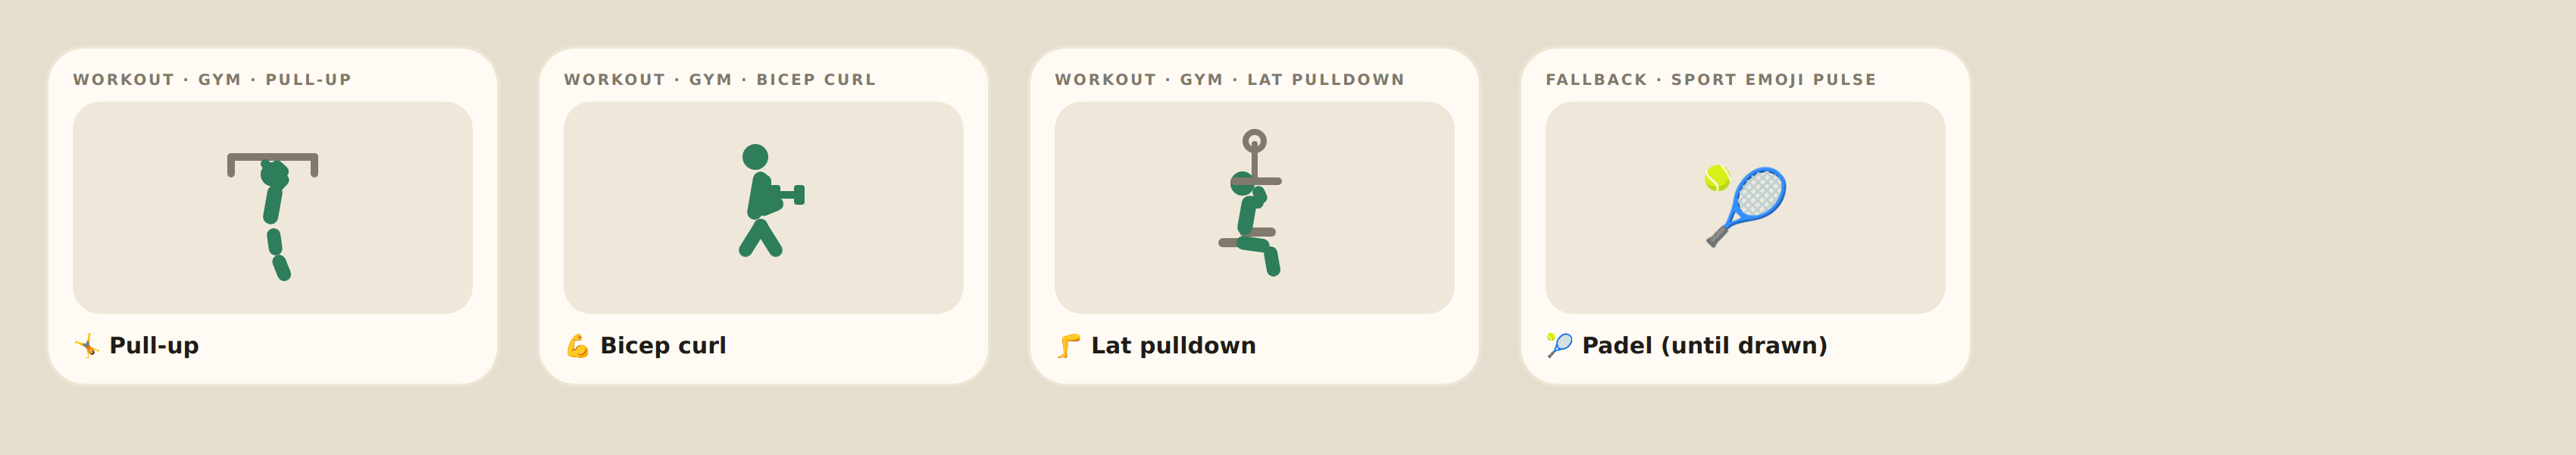
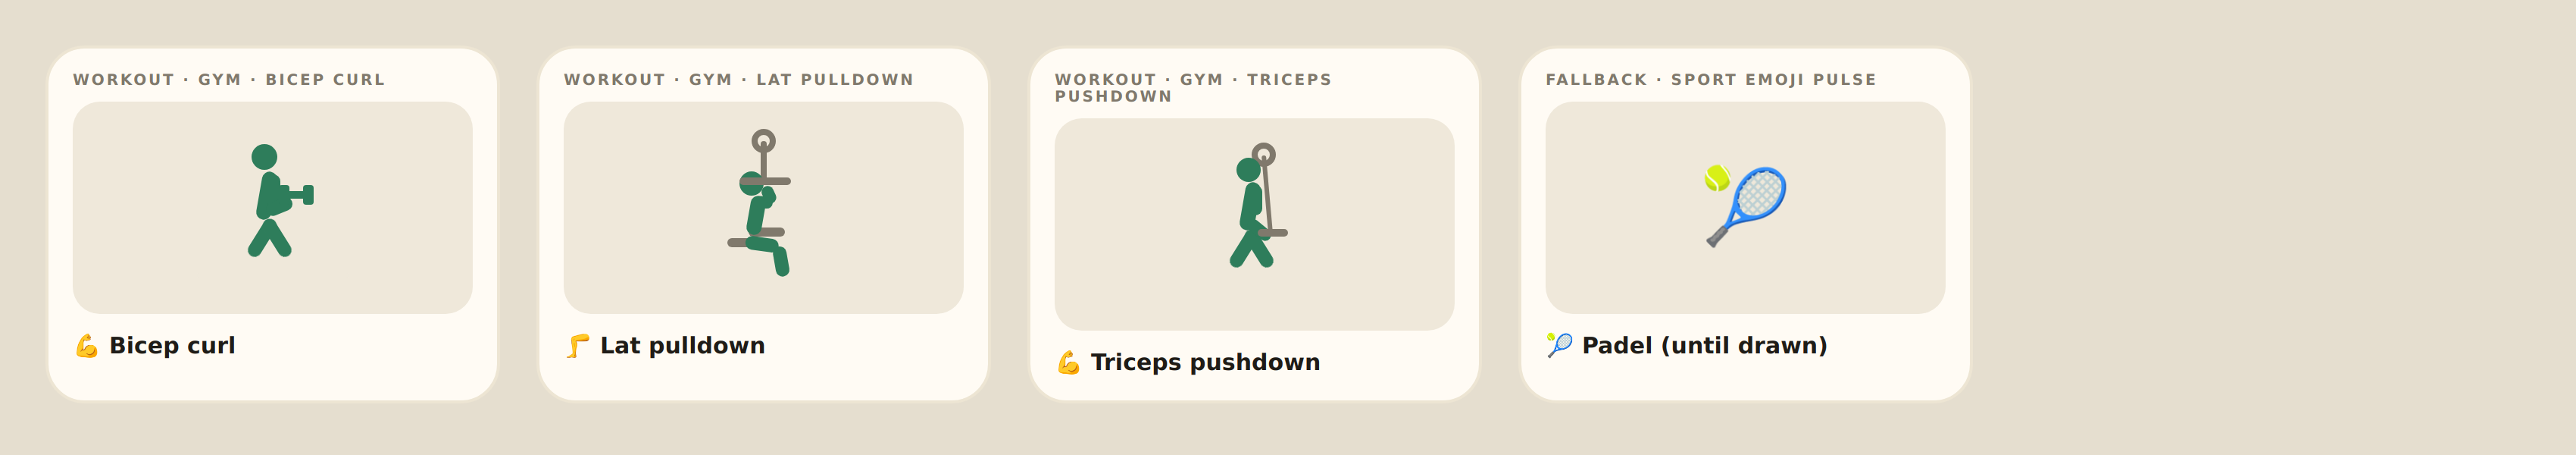
feat(workout): triceps-pushdown movement glyph
Standing at a cable: upper arm pinned at the side, forearm extends from
bent (−10°) to straight down (88°), pushing a bar. The bar nests on the
forearm and counter-rotates to stay level (convention 3); the cable runs
from the top pulley to the forearm's FK tip (triHand) — convention 2. Both
attachment conventions in one figure. duration 1200ms. HTML-twin first.

Claude-Session: https://claude.ai/code/session_01MAEKquLMVqfVZ9tftgyL9e

diff --git a/app/src/components/MoveViz.tsx b/app/src/components/MoveViz.tsx
@@ -44,6 +44,7 @@ const DURATION: Record<string, number> = {
   pullup: 1500, // pull up to the bar and lower
   dbcurl: 1300, // curl up and lower
   latpull: 1500, // pull the bar down and let it rise
+  triext: 1200, // extend down and let it rise
 };
 const STATIC_PHASE = 0.25; // mid-movement pose used when motion is reduced
 
@@ -99,6 +100,8 @@ export function MoveViz({ kind, emoji, size = 116, color, tint }: { kind: MoveKi
         <Curl phase={phase} size={size} fg={fg} bg={bg} />
       ) : kind === 'latpull' ? (
         <LatPulldown phase={phase} size={size} fg={fg} equip={equip} />
+      ) : kind === 'triext' ? (
+        <Pushdown phase={phase} size={size} fg={fg} bg={bg} equip={equip} />
       ) : (
         <EmojiPulse phase={phase} size={size} emoji={emoji ?? '🏅'} />
       )}
@@ -604,6 +607,47 @@ function LatPulldown({ phase, size, fg, equip }: { phase: SharedValue<number>; s
       </Bone>
       {/* the wide bar (authored at the top, translates down to the chest) */}
       <Animated.View style={[{ position: 'absolute', left: 42 * s, top: 26 * s, width: 34 * s, height: 5 * s, borderRadius: 99, backgroundColor: equip }, bar]} />
+    </View>
+  );
+}
+
+// Triceps-pushdown forearm tip (FK), used to anchor the cable to the bar.
+function triHand(p: number, s: number): { x: number; y: number } {
+  'worklet';
+  const th = ((-10 + p * 98) * Math.PI) / 180;
+  return { x: 54 * s + 18 * s * Math.cos(th), y: 52 * s + 18 * s * Math.sin(th) };
+}
+
+// --- Triceps pushdown: standing at a cable, upper arm pinned, forearm extends down -----
+function Pushdown({ phase, size, fg, bg, equip }: { phase: SharedValue<number>; size: number; fg: string; bg: string; equip: string }) {
+  const s = size / 116;
+  const p = (v: number) => (1 - Math.cos(v * 2 * Math.PI)) / 2; // 0 top (bent) → 1 extended (down)
+  const forearm = useAnimatedStyle(() => { 'worklet'; return { transform: [{ rotate: `${-10 + p(phase.value) * 98}deg` }] }; });
+  const bar = useAnimatedStyle(() => { 'worklet'; return { transform: [{ rotate: `${10 - p(phase.value) * 98}deg` }] }; }); // counter-rotate → bar level
+  const flyX = 64 * s, flyY = 12 * s; // pulley centre
+  const cableRot = useAnimatedStyle(() => { 'worklet'; const h = triHand(p(phase.value), s); return { transform: [{ rotate: `${Math.atan2(h.y - flyY, h.x - flyX)}rad` }] }; });
+  const cableLen = useAnimatedStyle(() => { 'worklet'; const h = triHand(p(phase.value), s); return { width: Math.sqrt((h.x - flyX) ** 2 + (h.y - flyY) ** 2) }; });
+  return (
+    <View style={{ width: size, height: size }}>
+      <View style={{ position: 'absolute', left: size * 0.08, right: size * 0.08, bottom: size * 0.1, height: 3 * s, borderRadius: 99, backgroundColor: bg }} />
+      {/* top pulley + cable to the bar */}
+      <View style={{ position: 'absolute', left: 56 * s, top: 4 * s, width: 16 * s, height: 16 * s, borderRadius: 99, borderWidth: 4 * s, borderColor: equip }} />
+      <Animated.View style={[{ position: 'absolute', left: flyX, top: flyY, width: 0, height: 0 }, cableRot]}>
+        <Animated.View style={[{ position: 'absolute', left: 0, top: -1.5 * s, height: 3 * s, borderRadius: 99, backgroundColor: equip }, cableLen]} />
+      </Animated.View>
+      {/* standing figure */}
+      <View style={{ position: 'absolute', left: 54 * s, top: 62 * s, width: 9 * s, height: 28 * s, borderRadius: 99, backgroundColor: fg, transform: [{ rotate: '5deg' }] }} />
+      <View style={{ position: 'absolute', left: 49 * s, top: 62 * s, width: 9 * s, height: 28 * s, borderRadius: 99, backgroundColor: fg, transform: [{ rotate: '-5deg' }] }} />
+      <View style={{ position: 'absolute', left: 50 * s, top: 30 * s, width: 10 * s, height: 32 * s, borderRadius: 99, backgroundColor: fg }} />
+      <View style={{ position: 'absolute', left: 46 * s, top: 14 * s, width: 16 * s, height: 16 * s, borderRadius: 99, backgroundColor: fg }} />
+      {/* upper arm pinned vertical at the side */}
+      <View style={{ position: 'absolute', left: 53 * s, top: 32 * s, width: 9 * s, height: 21 * s, borderRadius: 99, backgroundColor: fg }} />
+      {/* forearm extends down; the bar (equip, machine) counter-rotates level at its end */}
+      <Bone x={54 * s} y={52 * s} len={18 * s} w={8 * s} color={fg} rot={forearm}>
+        <Animated.View style={[{ position: 'absolute', left: 0, top: 0, width: 0, height: 0 }, bar]}>
+          <View style={{ position: 'absolute', left: -10 * s, top: -2.5 * s, width: 20 * s, height: 5 * s, borderRadius: 99, backgroundColor: equip }} />
+        </Animated.View>
+      </Bone>
     </View>
   );
 }

diff --git a/mockups/redesign/expressive/prototype-v3/moveviz-preview.html b/mockups/redesign/expressive/prototype-v3/moveviz-preview.html
@@ -28,6 +28,19 @@ body{background:#E5DECF;font-family:'Plus Jakarta Sans',system-ui,sans-serif;dis
 /* emoji-pulse fallback — the sport's own emoji, gently pulsing */
 .pulse{font-size:48px;animation:pulse 1.1s ease-in-out infinite}
 @keyframes pulse{0%,100%{transform:scale(.9);opacity:.7}50%{transform:scale(1.06);opacity:1}}
+/* triceps pushdown: standing at a cable, upper arm pinned, forearm extends down */
+.tri{position:relative;width:116px;height:116px}
+.tri b{position:absolute;border-radius:99px;background:var(--grn)}
+.tri .ground{left:8px;right:8px;bottom:12px;height:3px;background:var(--navbg)}
+.tri .pulley{position:absolute;left:56px;top:4px;width:16px;height:16px;border:4px solid var(--mut);border-radius:99px}
+.tri .cable{left:64px;top:11px;width:52px;height:3px;background:var(--mut);transform-origin:left center;transform:rotate(85deg)}
+.tri .pbar{left:60px;top:61px;width:20px;height:5px;background:var(--mut)}
+.tri .head{left:46px;top:14px;width:16px;height:16px}
+.tri .torso{left:50px;top:30px;width:10px;height:32px}
+.tri .legF{left:54px;top:62px;width:9px;height:28px;transform-origin:top center;transform:rotate(5deg)}
+.tri .legB{left:49px;top:62px;width:9px;height:28px;transform-origin:top center;transform:rotate(-5deg)}
+.tri .uarm{left:54px;top:32px;width:9px;height:20px;transform-origin:top center}
+.tri .forearm{left:54px;top:52px;width:18px;height:8px;transform-origin:left center;transform:rotate(39deg)}
 /* lat pulldown: seated, pulling a cable bar down to the chest (mid-pull pose) */
 .lat{position:relative;width:116px;height:116px}
 .lat b{position:absolute;border-radius:99px;background:var(--grn)}
@@ -169,16 +182,6 @@ body{background:#E5DECF;font-family:'Plus Jakarta Sans',system-ui,sans-serif;dis
 .lp .foot{left:22px;top:-15px;width:8px;height:34px;border-radius:5px;background:var(--grn)} /* child of shin: footplate */
 </style></head><body>
 <div class="card">
- <div class="lbl">WORKOUT · GYM · PULL-UP</div>
- <div class="stage"><div class="pu">
-  <b class="bar"></b><b class="postL"></b><b class="postR"></b>
-  <b class="head"></b><b class="torso"></b>
-  <b class="thigh"><b class="shin"></b></b>
-  <b class="uarm"><b class="farm"><b class="grip"></b></b></b>
- </div></div>
- <div class="name">🤸 Pull-up</div>
-</div>
-<div class="card">
  <div class="lbl">WORKOUT · GYM · BICEP CURL</div>
  <div class="stage"><div class="cu">
   <b class="ground"></b><b class="legF"></b><b class="legB"></b>
@@ -198,6 +201,16 @@ body{background:#E5DECF;font-family:'Plus Jakarta Sans',system-ui,sans-serif;dis
   <b class="pbar"></b>
  </div></div>
  <div class="name">🦵 Lat pulldown</div>
+</div>
+<div class="card">
+ <div class="lbl">WORKOUT · GYM · TRICEPS PUSHDOWN</div>
+ <div class="stage"><div class="tri">
+  <b class="ground"></b><div class="pulley"></div><b class="cable"></b>
+  <b class="legF"></b><b class="legB"></b><b class="torso"></b><b class="head"></b>
+  <b class="uarm"></b><b class="forearm"></b>
+  <b class="pbar"></b>
+ </div></div>
+ <div class="name">💪 Triceps pushdown</div>
 </div>
 <div class="card">
  <div class="lbl">FALLBACK · SPORT EMOJI PULSE</div>